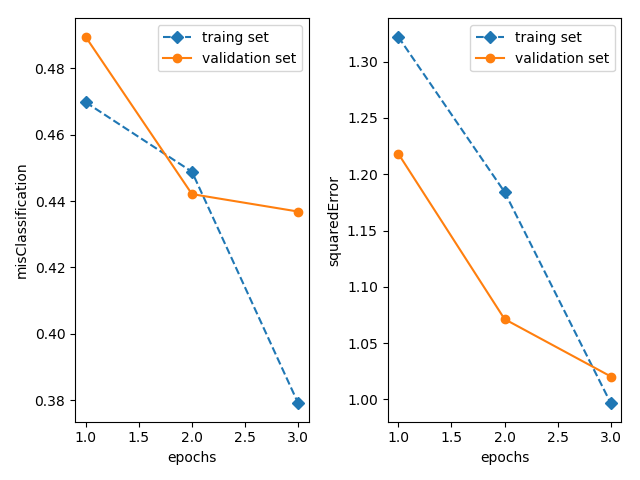
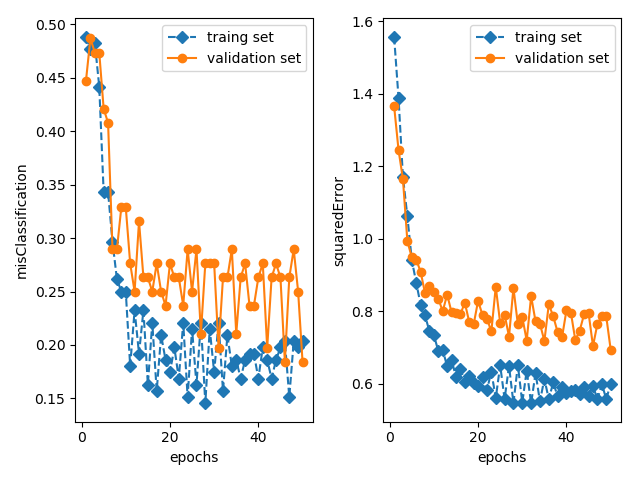
images done?

diff --git a/src/Validation.py b/src/Validation.py
@@ -45,7 +45,7 @@ def grid_search(parameter, loss_obj, tr_patterns,tr_labels,vl_patterns,vl_labels
     :return:
     """
     n_figure = 0  # index of figures
-    fixed_number_epoch = 3
+    fixed_number_epoch = 300
     # for every value
     for lr in parameter.learning_rate:
         for mo in parameter.momentum:
@@ -82,21 +82,21 @@ def grid_search(parameter, loss_obj, tr_patterns,tr_labels,vl_patterns,vl_labels
                     misClass_error_validation_avarage/=( n_trials *len(vl_patterns))
 
                     # plot result
-                    plt.figure(n_figure) # select figure number 'n_figure'
-                    plt.subplot(1, 2, 1)
-                    plt.plot(range(1, len(misClass_error_avarage) + 1), misClass_error_avarage, '--D')
-                    plt.plot(range(1, len(misClass_error_validation_avarage) + 1), misClass_error_validation_avarage, '-o')
-                    plt.legend(['traing set', 'validation set'])
+                    plt.figure(n_figure, dpi=1600) # select figure number 'n_figure'
+                    plt.subplot(2, 1, 1)
+                    plt.plot(range(1, len(misClass_error_avarage) + 1), misClass_error_avarage, '--')
+                    plt.plot(range(1, len(misClass_error_validation_avarage) + 1), misClass_error_validation_avarage, '-')
+                    plt.legend(['training set', 'validation set'])
                     plt.xlabel("epochs")
-                    plt.ylabel("misClassification")
+                    plt.ylabel("misclassification")
                     #plot squaredError
-                    plt.subplot(1,2,2)
-                    plt.plot(range(1, len(squared_error_avarage) + 1), squared_error_avarage, '--D')
-                    plt.plot(range(1, len(squared_error_validation_avarage) + 1),squared_error_validation_avarage, '-o')
-                    plt.legend(['traing set', 'validation set'])
+                    plt.subplot(2, 1, 2)
+                    plt.plot(range(1, len(squared_error_avarage) + 1), squared_error_avarage, '--')
+                    plt.plot(range(1, len(squared_error_validation_avarage) + 1),squared_error_validation_avarage, '-')
+                    plt.legend(['training set', 'validation set'])
                     plt.xlabel("epochs")
-                    plt.ylabel("squaredError")
-                    s = "../image/lr_"+transf_value(lr)+" mo_"+transf_value(mo)+" reg:"+transf_value(reg)+" arc_"+tranf_arc(arc)
+                    plt.ylabel("squared error")
+                    s = "../image/lr_"+transf_value(lr)+"-mo_"+transf_value(mo)+"-reg:"+transf_value(reg)+"-arc_"+tranf_arc(arc)
                     plt.tight_layout()  # minimize overlap of subplots
                     plt.savefig(s)
                     n_figure += 1 # increment to create a new figure

diff --git a/src/monk_benchmark.py b/src/monk_benchmark.py
@@ -61,13 +61,13 @@ def main():
     #4. hold out
     tr_patterns,tr_labels,vl_patterns,vl_labels = Validation.hold_out(patterns,labels,0.7)
     # validation: define hyperparameters to test
-    architecture =[ [17,10,1], [17,5,5,1] ]
-    neurons=[ [InputNeuron, TanHNeuron, TanHNeuron], [InputNeuron, TanHNeuron, TanHNeuron, TanHNeuron] ]
+    architecture = [ [17,10,1]] #[ [17,10,1], [17,5,5,1] ]
+    neurons= [ [InputNeuron, TanHNeuron, TanHNeuron]] #[ [InputNeuron, TanHNeuron, TanHNeuron], [InputNeuron, TanHNeuron, TanHNeuron, TanHNeuron] ]
     momentum = [0.5, 0.7, 0.9]
-    regularization = [0.01, 0.03, 0.05]
-    learing_rate = [0.3, 0.5, 0.7]
+    regularization = [0.01] # [0.01, 0.03, 0.05]
+    learing_rate = [0.3] #[0.3, 0.5, 0.7]
     param = Validation.grid_search_parameter(learing_rate,momentum,regularization,architecture,neurons)
-    Validation.grid_search(param,lossObject,tr_patterns,tr_labels,vl_patterns,vl_labels,n_trials=5)
+    Validation.grid_search(param,lossObject,tr_patterns,tr_labels,vl_patterns,vl_labels, n_trials=2)
     """
     losses, misClass = network.train(data=patterns, targets=labels,lossObject=lossObject, epochs=100, learning_rate=0.01,
                                     batch_size=1, momentum=0.0, regularization=0.01)
